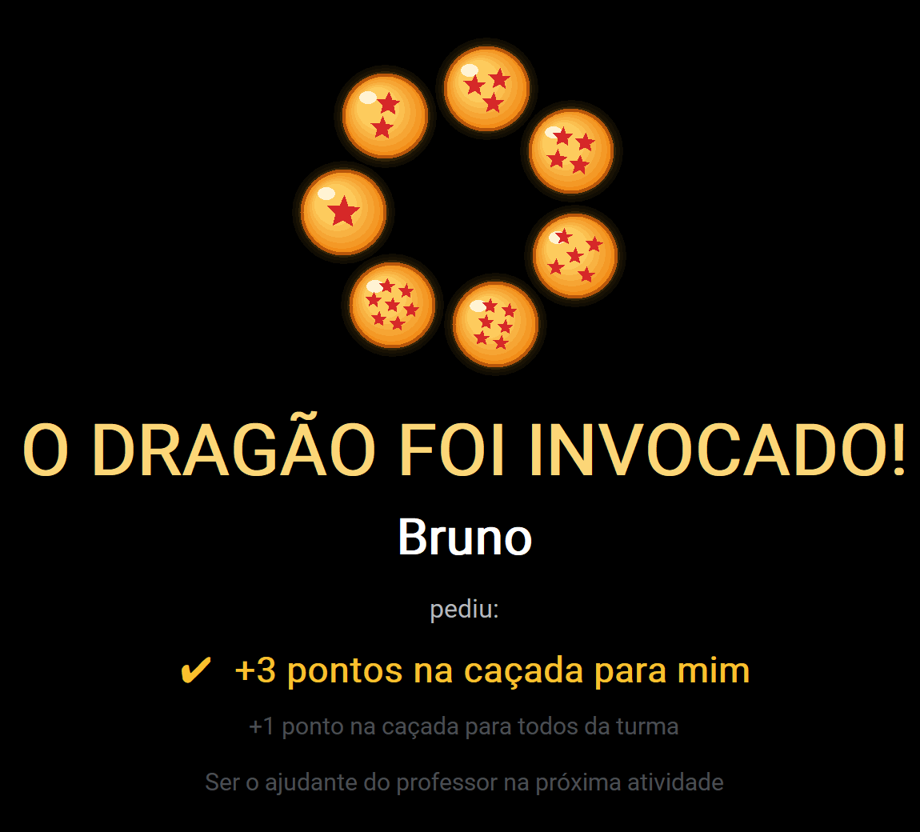
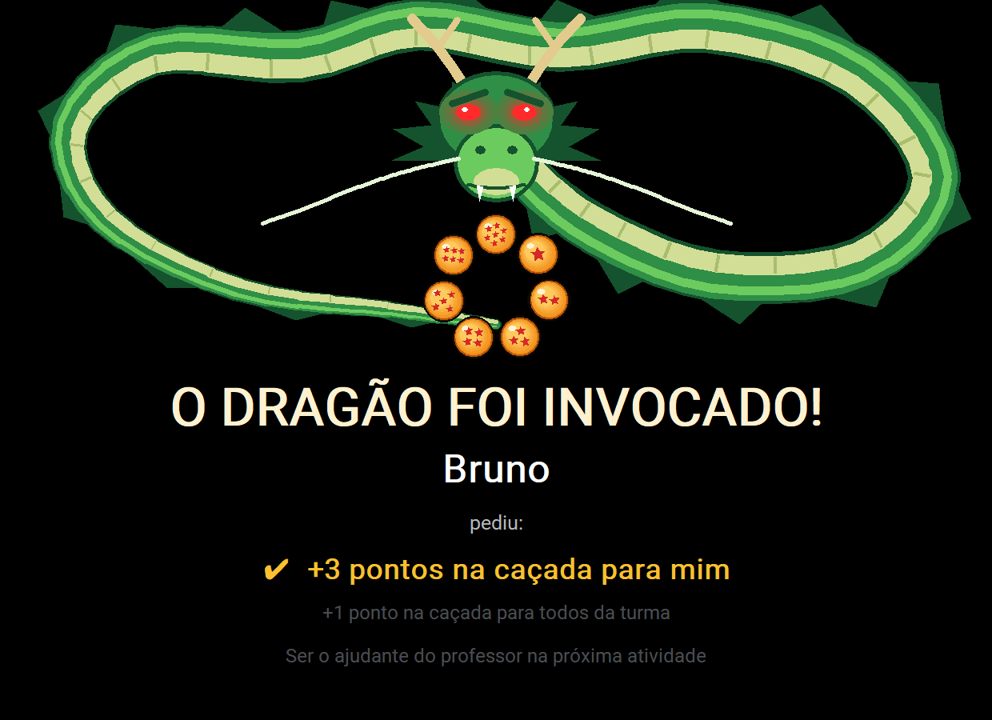
Caça às Esferas: o dragão (desenho próprio no Canvas) nasce das esferas no efeito do telão

Changed region(s): [[0.0, 0.0, 1.0, 0.6722], [0.1826, 0.7028, 0.8217, 0.9472]]

diff --git a/interface/desenho_dragao.py b/interface/desenho_dragao.py
@@ -1,0 +1,163 @@
+"""
+Desenha o dragao que sai das esferas no efeito do telao (interface/efeito_dragao.py).
+E um desenho proprio, so com formas do Canvas (linhas, circulos e poligonos): corpo verde que da uma volta,
+nadadeira nas costas, barriga clara em gomos, chifres, bigodes e olhos vermelhos brilhando. Nenhuma imagem de fora.
+
+O corpo e feito de muitos pedacinhos de linha GROSSA com ponta redonda, um depois do outro: juntos viram um
+"tubo". Para o dragao "nascer" da luz, so desenhamos a parte que ja cresceu, e a ponta nova brilha em amarelo.
+"""
+
+import math
+
+from interface.desenho_esfera import misturar
+
+VERDE_ESCURO = "#14532D"
+VERDE = "#2F8F46"
+VERDE_CLARO = "#6CCB5F"
+BARRIGA = "#D2DE96"
+GOMO = "#A9BD6E"
+CHIFRE = "#E2CB8C"
+OLHO = "#FF2A2A"
+BIGODE = "#E6F4D7"
+LUZ = "#FFF1A8"
+
+PEDACOS = 80                 # quantos pedacinhos de linha formam o corpo
+TAMANHO_DA_CABECA = 0.13
+
+# Por onde o corpo passa, da cauda (dentro das esferas) ate o pescoco: sobe pela esquerda, passa por cima da
+# cabeca, desce pela direita e volta para a cabeca, no meio. x a partir do meio da tela e y a partir do topo,
+# os dois em "alturas de tela" (0.1 = 10% da altura): assim o desenho cabe em qualquer monitor.
+CAMINHO = [(0.0, 0.45), (-0.15, 0.43), (-0.36, 0.4), (-0.55, 0.3), (-0.6, 0.17), (-0.48, 0.07), (-0.27, 0.08),
+           (-0.1, 0.04), (0.1, 0.07), (0.3, 0.04), (0.5, 0.1), (0.6, 0.24), (0.5, 0.36), (0.3, 0.38), (0.14, 0.32),
+           (0.04, 0.24), (0.0, 0.18)]
+
+
+def _curva(pontos, total):
+    """Curva suave (Catmull-Rom) que passa por todos os pontos, com 'total' + 1 pontinhos."""
+    estendidos = [pontos[0]] + list(pontos) + [pontos[-1]]
+    trechos = len(pontos) - 1
+    curva = []
+    for indice in range(total + 1):
+        posicao = indice / total * trechos
+        trecho = min(int(posicao), trechos - 1)
+        t = posicao - trecho
+        p0, p1, p2, p3 = estendidos[trecho:trecho + 4]
+        curva.append(tuple(0.5 * (2 * p1[i] + (p2[i] - p0[i]) * t + (2 * p0[i] - 5 * p1[i] + 4 * p2[i] - p3[i]) * t * t
+                                 + (3 * p1[i] - p0[i] - 3 * p2[i] + p3[i]) * t ** 3) for i in (0, 1)))
+    return curva
+
+
+_CURVA = _curva(CAMINHO, PEDACOS)
+
+
+def _ponto(indice, t):
+    """Um ponto do corpo, balancando devagar com o tempo t (a cauda e a cabeca quase nao mexem)."""
+    s = indice / PEDACOS
+    x, y = _CURVA[indice]
+    balanco = 0.012 * math.sin(2 * math.pi * (2 * s - 0.4 * t)) * math.sin(math.pi * s)
+    return x + balanco, y + balanco * 0.6
+
+
+def _raio(s):
+    """Grossura do corpo: fino na cauda, grosso no meio, um pouco mais fino no pescoco."""
+    return 0.036 * (0.2 + 0.8 * min(1.0, s / 0.35)) * (1 - 0.2 * max(0.0, s - 0.85) / 0.15)
+
+
+def desenhar_dragao(canvas, largura, altura, crescido, t, fundo="#000000"):
+    """crescido: quanto do corpo ja apareceu (0 a 1; a cabeca surge no 1). Pode passar de 1: assim o brilho
+    da ponta vai sumindo depois que o dragao fica inteiro. t: segundos (para ele balancar)."""
+    if crescido <= 0:
+        return
+    meio = largura / 2
+    pontos = []
+    for indice in range(PEDACOS + 1):
+        x, y = _ponto(indice, t)
+        pontos.append((meio + x * altura, y * altura, indice / PEDACOS))
+    ultimo = max(1, int(min(1.0, crescido) * PEDACOS))
+
+    def cor(base, s):
+        idade = crescido - s                          # a ponta que acabou de crescer brilha
+        return misturar(LUZ, base, idade / 0.2) if idade < 0.2 else base
+
+    pedacos = []
+    for indice in range(ultimo):
+        (x1, y1, s), (x2, y2, _) = pontos[indice], pontos[indice + 1]
+        comprimento = math.hypot(x2 - x1, y2 - y1) or 1
+        nx, ny = -(y2 - y1) / comprimento, (x2 - x1) / comprimento    # perpendicular: barriga do lado de dentro
+        pedacos.append((x1, y1, x2, y2, s, nx, ny, _raio(s) * altura))
+
+    # 1) nadadeira das costas (atras de tudo)
+    for x1, y1, x2, y2, s, nx, ny, r in pedacos[4::4]:
+        dx, dy = (x2 - x1), (y2 - y1)
+        canvas.create_polygon(x1 - nx * r * 0.6 - dx, y1 - ny * r * 0.6 - dy, x1 - nx * r * 1.8, y1 - ny * r * 1.8,
+                              x1 - nx * r * 0.6 + dx * 2, y1 - ny * r * 0.6 + dy * 2, fill=cor(VERDE_ESCURO, s),
+                              outline="")
+    # 2) o corpo, em camadas: contorno, verde, brilho nas costas, barriga e os gomos da barriga
+    camadas = ((2.0, 0.0, VERDE_ESCURO), (1.6, -0.1, VERDE), (0.35, -0.5, VERDE_CLARO), (0.75, 0.48, BARRIGA))
+    for grossura, desvio, base in camadas:
+        for x1, y1, x2, y2, s, nx, ny, r in pedacos:
+            canvas.create_line(x1 + nx * r * desvio, y1 + ny * r * desvio, x2 + nx * r * desvio,
+                               y2 + ny * r * desvio, width=max(1, r * grossura), fill=cor(base, s),
+                               capstyle="round")
+    for x1, y1, x2, y2, s, nx, ny, r in pedacos[1::2]:
+        canvas.create_line(x1 + nx * r * 0.15, y1 + ny * r * 0.15, x1 + nx * r * 0.82, y1 + ny * r * 0.82,
+                           width=max(1, r * 0.12), fill=cor(GOMO, s))
+    # 3) a cabeca aparece quando o corpo termina de crescer (de frente, olhando para a turma)
+    if crescido >= 1:
+        x, y, _ = pontos[-1]
+        desenhar_cabeca(canvas, x, y, TAMANHO_DA_CABECA * altura, t)
+
+
+def desenhar_cabeca(canvas, cx, cy, tamanho, t):
+    """tamanho = altura da cabeca em pixels."""
+    h = tamanho
+    cy += math.sin(t * 1.6) * h * 0.04                                # balanca de leve
+    # juba espetada atras da cabeca
+    juba = []
+    for i in range(17):
+        angulo = math.pi * (-0.05 + 1.1 * i / 16)
+        r = h * (1.0 if i % 2 == 0 else 0.68)
+        juba += [cx - math.cos(angulo) * r * 1.15, cy - math.sin(angulo) * r * 0.8 + h * 0.2]
+    canvas.create_polygon(juba, fill=VERDE_ESCURO, outline="")
+    # chifres: um tronco e um galho de cada lado
+    for lado in (-1, 1):
+        canvas.create_line(cx + lado * h * 0.3, cy - h * 0.4, cx + lado * h * 0.55, cy - h * 0.85,
+                           cx + lado * h * 0.9, cy - h * 1.2, fill=CHIFRE, width=max(3, h * 0.11), smooth=True,
+                           capstyle="round")
+        canvas.create_line(cx + lado * h * 0.6, cy - h * 0.92, cx + lado * h * 0.42, cy - h * 1.18,
+                           fill=CHIFRE, width=max(2, h * 0.075), capstyle="round")
+    # cabeca e focinho
+    canvas.create_oval(cx - h * 0.62, cy - h * 0.62, cx + h * 0.62, cy + h * 0.38, fill=VERDE, outline=VERDE_ESCURO,
+                       width=max(2, h * 0.04))
+    canvas.create_oval(cx - h * 0.44, cy - h * 0.05, cx + h * 0.44, cy + h * 0.74, fill=VERDE_CLARO,
+                       outline=VERDE_ESCURO, width=max(2, h * 0.04))
+    canvas.create_oval(cx - h * 0.24, cy + h * 0.4, cx + h * 0.24, cy + h * 0.68, fill=BARRIGA, outline="")
+    for lado in (-1, 1):                                               # narinas
+        canvas.create_oval(cx + lado * h * 0.17 - h * 0.05, cy + h * 0.16, cx + lado * h * 0.17 + h * 0.05,
+                           cy + h * 0.25, fill=VERDE_ESCURO, outline="")
+    canvas.create_line(cx - h * 0.32, cy + h * 0.57, cx, cy + h * 0.66, cx + h * 0.32, cy + h * 0.57,
+                       fill=VERDE_ESCURO, width=max(2, h * 0.035), smooth=True)
+    for lado in (-1, 1):                                               # presas
+        canvas.create_polygon(cx + lado * h * 0.21, cy + h * 0.58, cx + lado * h * 0.14, cy + h * 0.6,
+                              cx + lado * h * 0.18, cy + h * 0.76, fill="#FFFFFF", outline="")
+    # bigodes compridos que ondulam
+    for lado in (-1, 1):
+        pontos = []
+        for i in range(9):
+            u = i / 8
+            pontos += [cx + lado * (h * 0.4 + u * h * 2.1),
+                       cy + h * 0.3 + u * h * 0.55 + math.sin(t * 2.2 + u * 3) * h * 0.14 * u]
+        canvas.create_line(pontos, fill=BIGODE, width=max(2, h * 0.04), smooth=True, capstyle="round")
+    # sobrancelhas grossas e olhos vermelhos brilhando (pulsam)
+    brilho = 0.6 + 0.4 * math.sin(t * 5)
+    for lado in (-1, 1):
+        ox, oy = cx + lado * h * 0.3, cy - h * 0.2
+        for anel in (3, 2, 1):
+            r = h * 0.1 * (1 + 0.5 * anel * brilho)
+            canvas.create_oval(ox - r * 1.3, oy - r, ox + r * 1.3, oy + r,
+                               fill=misturar(VERDE, OLHO, 0.5 * brilho / anel), outline="")
+        canvas.create_oval(ox - h * 0.13, oy - h * 0.085, ox + h * 0.13, oy + h * 0.085, fill=OLHO, outline="")
+        canvas.create_oval(ox - h * 0.035 + lado * h * 0.03, oy - h * 0.05, ox + h * 0.02 + lado * h * 0.03,
+                           oy - h * 0.005, fill="#FFFFFF", outline="")
+        canvas.create_line(ox - lado * h * 0.18, oy - h * 0.21, ox + lado * h * 0.17, oy - h * 0.09,
+                           fill=VERDE_ESCURO, width=max(3, h * 0.075), capstyle="round")

diff --git a/interface/efeito_dragao.py b/interface/efeito_dragao.py
@@ -1,7 +1,8 @@
 """
 O que aparece no telao durante a Caca as Esferas:
   - EfeitoDragao: tela cheia quando o 1o aluno junta as 7 esferas (fundo escurece, esferas girando e brilhando,
-    flash de luz, "O DRAGAO FOI INVOCADO!", o nome do aluno e o pedido). Sem desenho do dragao: so as esferas.
+    flash de luz, o dragao nascendo das esferas, "O DRAGAO FOI INVOCADO!", o nome do aluno e o pedido).
+    O dragao e um desenho proprio feito com formas do Canvas (interface/desenho_dragao.py), sem imagem de fora.
   - AvisoNoTelao: uma faixa no alto da tela por alguns segundos ("Bruno tambem invocou o dragao!").
   - Som: bipes com o winsound (so existe no Windows; em outro sistema fica mudo).
 """
@@ -12,6 +13,7 @@ import time
 import tkinter as tk
 
 from interface import tema
+from interface.desenho_dragao import desenhar_dragao
 from interface.desenho_esfera import desenhar_esfera, misturar
 
 try:
@@ -24,6 +26,7 @@ DURACAO_MINIMA = 8                  # segundos de efeito, no minimo
 DEPOIS_DO_PEDIDO = 3.5              # segundos mostrando o pedido escolhido
 DURACAO_MAXIMA = 45                 # seguranca: fecha sozinho mesmo se o pedido nunca chegar
 FLASH = 2.4                         # segundo em que acontece o clarao
+TEXTOS_DEPOIS = 1.6                 # segundos depois do clarao (o dragao aparece primeiro)
 PRETO = "#000000"
 AMARELO = tema.DESTAQUE
 
@@ -132,9 +135,6 @@ class EfeitoDragao(tk.Toplevel):
         if self.fechando is None:
             self.fechando = time.time()
 
-    def _fonte(self, fracao, negrito=True):
-        return (tema.escolher_fonte(), -max(14, int(self.altura * fracao)), "bold" if negrito else "normal")
-
     def desenhar(self):
         if not self.winfo_exists():
             return
@@ -154,47 +154,63 @@ class EfeitoDragao(tk.Toplevel):
             if self.ao_fechar:
                 self.ao_fechar()
             return
-        c, w, h = self.canvas, self.largura, self.altura
-        c.delete("all")
-        # o clarao: o fundo fica branco e volta ao preto em meio segundo
-        if FLASH <= t < FLASH + 0.5:
-            fundo = misturar("#FFFFFF", PRETO, (t - FLASH) / 0.5)
-        else:
-            fundo = PRETO
-        c.configure(bg=fundo)
-        # as 7 esferas girando: no comeco, em roda no meio da tela; depois do clarao, sobem para dar lugar ao texto
-        mudanca = min(1.0, max(0.0, (t - FLASH) / 0.8))
-        centro_y = h * (0.5 - 0.26 * mudanca)
-        raio_da_roda = h * (0.27 - 0.13 * mudanca) * min(1.0, 0.3 + t / 1.2)
-        velocidade = 0.6 + 2.6 * min(1.0, t / FLASH) if t < FLASH else 0.5
-        angulo_base = t * velocidade
-        tamanho = h * (0.06 - 0.012 * mudanca)
-        brilho = 0.55 + 0.45 * math.sin(t * 6)
-        for i in range(7):
-            angulo = angulo_base + i * 2 * math.pi / 7
-            x = w / 2 + raio_da_roda * math.cos(angulo)
-            y = centro_y + raio_da_roda * math.sin(angulo)
-            desenhar_esfera(c, x, y, tamanho, i + 1, brilho=brilho, fundo=fundo, giro=t * 0.8)
-        if t < FLASH:
-            return self.after(QUADRO, self.desenhar)
-        # os textos aparecem depois do clarao
-        cor_titulo = misturar(AMARELO, "#FFFFFF", 0.5 + 0.5 * math.sin(t * 4))
-        c.create_text(w / 2, h * 0.52, text="O DRAGÃO FOI INVOCADO!", fill=cor_titulo, font=self._fonte(0.085))
-        c.create_text(w / 2, h * 0.62, text=self.nome, fill="#FFFFFF", font=self._fonte(0.06))
-        if self.pedido is None:
-            restante = max(0, 30 - int(t))
-            c.create_text(w / 2, h * 0.705, text=f"está escolhendo o pedido...  {restante}",
-                          fill=tema.TEXTO_SECUNDARIO, font=self._fonte(0.03, negrito=False))
-        else:
-            c.create_text(w / 2, h * 0.705, text="pediu:", fill=tema.TEXTO_SECUNDARIO,
-                          font=self._fonte(0.03, negrito=False))
-        for posicao, (numero, texto) in enumerate(self.opcoes.items()):
-            y = h * (0.775 + 0.065 * posicao)
-            if self.pedido is None:
-                cor, fonte = "#9A9DA3", self._fonte(0.032, negrito=False)
-            elif self.pedido == numero:
-                cor, fonte, texto = AMARELO, self._fonte(0.042), f"✔  {texto}"
-            else:
-                cor, fonte = "#4A4D52", self._fonte(0.028, negrito=False)
-            c.create_text(w / 2, y, text=texto, fill=cor, font=fonte)
+        desenhar_cena(self.canvas, self.largura, self.altura, t, self.nome, self.opcoes, self.pedido)
         self.after(QUADRO, self.desenhar)
+
+
+def _fonte(altura, fracao, negrito=True):
+    return (tema.escolher_fonte(), -max(14, int(altura * fracao)), "bold" if negrito else "normal")
+
+
+def _suave(x):
+    """0 a 1, comecando rapido e terminando devagar."""
+    x = min(1.0, max(0.0, x))
+    return 1 - (1 - x) ** 2
+
+
+def desenhar_cena(c, w, h, t, nome, opcoes, pedido):
+    """Um quadro do efeito, t segundos depois do comeco (separado da janela para dar para testar)."""
+    c.delete("all")
+    # o clarao: o fundo fica branco e volta ao preto em meio segundo
+    if FLASH <= t < FLASH + 0.5:
+        fundo = misturar("#FFFFFF", PRETO, (t - FLASH) / 0.5)
+    else:
+        fundo = PRETO
+    c.configure(bg=fundo)
+    # depois do clarao, o dragao nasce de dentro das esferas e sobe serpenteando
+    progresso = (t - FLASH - 0.15) / 1.8
+    desenhar_dragao(c, w, h, _suave(progresso) if progresso < 1 else progresso, t, fundo)
+    # as 7 esferas girando: no comeco, uma roda grande no meio; depois do clarao, pequenas, aos pes do dragao
+    mudanca = _suave((t - FLASH) / 0.8)
+    centro_y = h * (0.5 - 0.10 * mudanca)
+    raio_da_roda = h * (0.27 - 0.195 * mudanca) * min(1.0, 0.3 + t / 1.2)
+    velocidade = 0.6 + 2.6 * min(1.0, t / FLASH) if t < FLASH else 0.7
+    angulo_base = t * velocidade
+    tamanho = h * (0.06 - 0.034 * mudanca)
+    brilho = 0.55 + 0.45 * math.sin(t * 6)
+    for i in range(7):
+        angulo = angulo_base + i * 2 * math.pi / 7
+        x = w / 2 + raio_da_roda * math.cos(angulo)
+        y = centro_y + raio_da_roda * math.sin(angulo)
+        desenhar_esfera(c, x, y, tamanho, i + 1, brilho=brilho, fundo=fundo, giro=t * 0.8)
+    if t < FLASH + TEXTOS_DEPOIS:
+        return
+    # os textos aparecem quando o dragao ja esta quase inteiro
+    cor_titulo = misturar(AMARELO, "#FFFFFF", 0.5 + 0.5 * math.sin(t * 4))
+    c.create_text(w / 2, h * 0.565, text="O DRAGÃO FOI INVOCADO!", fill=cor_titulo, font=_fonte(h, 0.075))
+    c.create_text(w / 2, h * 0.65, text=nome, fill="#FFFFFF", font=_fonte(h, 0.055))
+    if pedido is None:
+        restante = max(0, 30 - int(t))
+        c.create_text(w / 2, h * 0.725, text=f"está escolhendo o pedido...  {restante}",
+                      fill=tema.TEXTO_SECUNDARIO, font=_fonte(h, 0.028, negrito=False))
+    else:
+        c.create_text(w / 2, h * 0.725, text="pediu:", fill=tema.TEXTO_SECUNDARIO, font=_fonte(h, 0.028, negrito=False))
+    for posicao, (numero, texto) in enumerate(opcoes.items()):
+        y = h * (0.79 + 0.06 * posicao)
+        if pedido is None:
+            cor, fonte = "#9A9DA3", _fonte(h, 0.03, negrito=False)
+        elif pedido == numero:
+            cor, fonte, texto = AMARELO, _fonte(h, 0.04), f"✔  {texto}"
+        else:
+            cor, fonte = "#4A4D52", _fonte(h, 0.027, negrito=False)
+        c.create_text(w / 2, y, text=texto, fill=cor, font=fonte)

diff --git a/docs/DECISOES.md b/docs/DECISOES.md
@@ -62,7 +62,8 @@ Plano completo e a lista de ganchos nos arquivos antigos: `docs/PLANO_ESFERAS.md
 | 41 | Plano B do grito: a 💡 dica extra 6 libera no app a opção **unicast** (direto para o IP do servidor). | Uma dica sozinha não faz o broadcast passar numa rede que bloqueia. E broadcast × unicast vira assunto de aula. |
 | 42 | As dicas aparecem em sequência, mas o **resgate não exige ordem**. | Quem travar numa esfera (ex.: rede sem broadcast) não fica preso. |
 | 43 | Avisos para a turma com `chat.mensagem_do_professor()`, chamada **fora da trava** da caçada. | Sem rota nova e sem polling novo (o aviso já chega pelo contador do chat). Fora da trava, o chat nunca espera a caçada. |
-| 44 | O efeito do 1º lugar dura **pelo menos 8 s e espera o pedido** (até 30 s); um clique fecha. Os seguintes ganham um aviso menor. Sem desenho do dragão: só as esferas, o flash e o texto. | A turma assiste à escolha do pedido. Não usamos imagem de personagem. |
+| 44 | O efeito do 1º lugar dura **pelo menos 8 s e espera o pedido** (até 30 s); um clique fecha. Os seguintes ganham um aviso menor. | A turma assiste à escolha do pedido. |
+| 48 | Depois do clarão, um **dragão verde desenhado com formas do Canvas** (`interface/desenho_dragao.py`) nasce das esferas, dá uma volta e mostra a cabeça de olhos vermelhos. Substitui o "sem desenho do dragão" da primeira versão da 2.3, a pedido do professor. | A dragonball-api não tem o Shenlong (nem o Porunga). Um desenho próprio, feito de linhas e círculos, evita trazer imagem de fora e roda leve (~5 ms por quadro em 1920×1080). |
 | 45 | A grade do painel é um `Canvas` que **ajusta a altura das linhas** para caber todos os alunos; o botão **⛶ Telão** mostra a mesma grade em tela cheia. | A coluna do meio do painel tem ~600 px: estreita para 15 alunos no projetor. |
 | 46 | Resultado em CSV com `;` e UTF-8 com BOM, em `%LOCALAPPDATA%\DragonBallDex\cacadas\`. | O Excel em português abre certinho, com acentos. |
 | 47 | Resposta da esfera 7 só em **ASCII** (sem acento nem emoji) quando o cliente é um terminal. | O `cmd` mostra o UTF-8 todo embaralhado. |

diff --git a/README.md b/README.md
@@ -178,7 +178,8 @@ na 2.2.
 4. A tela Esferas mostra **uma dica de cada vez**: a dica seguinte aparece quando o aluno resgata a esfera da vez.
 5. A turma travou numa esfera? Clique em **💡 1** a **💡 7**. A dica extra vai como aviso do professor no chat e
    também aparece na tela Esferas de cada aluno.
-6. O **1º** a juntar as 7 dispara o efeito em tela cheia: "O DRAGÃO FOI INVOCADO!", com o nome do aluno e as 3 opções
+6. O **1º** a juntar as 7 dispara o efeito em tela cheia: as esferas giram, vem um clarão, o dragão sai das esferas e
+   aparece "O DRAGÃO FOI INVOCADO!", com o nome do aluno e as 3 opções
    de pedido, enquanto ele escolhe (até 30 s; sem escolha, vale a 1ª). Os seguintes aparecem num aviso menor no alto da
    tela. A turma toda recebe um aviso no chat ("🐉 Ana invocou o dragão!").
 7. Quando o tempo acaba (ou em **■ Encerrar**), o resultado vai para um arquivo CSV, que abre no Excel, em
